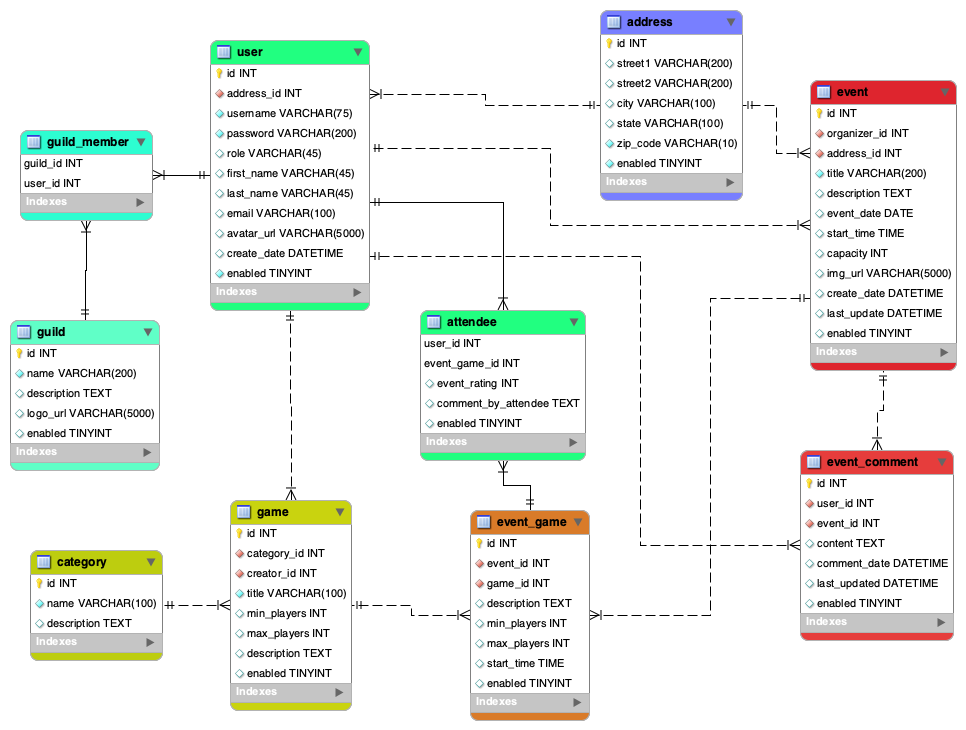
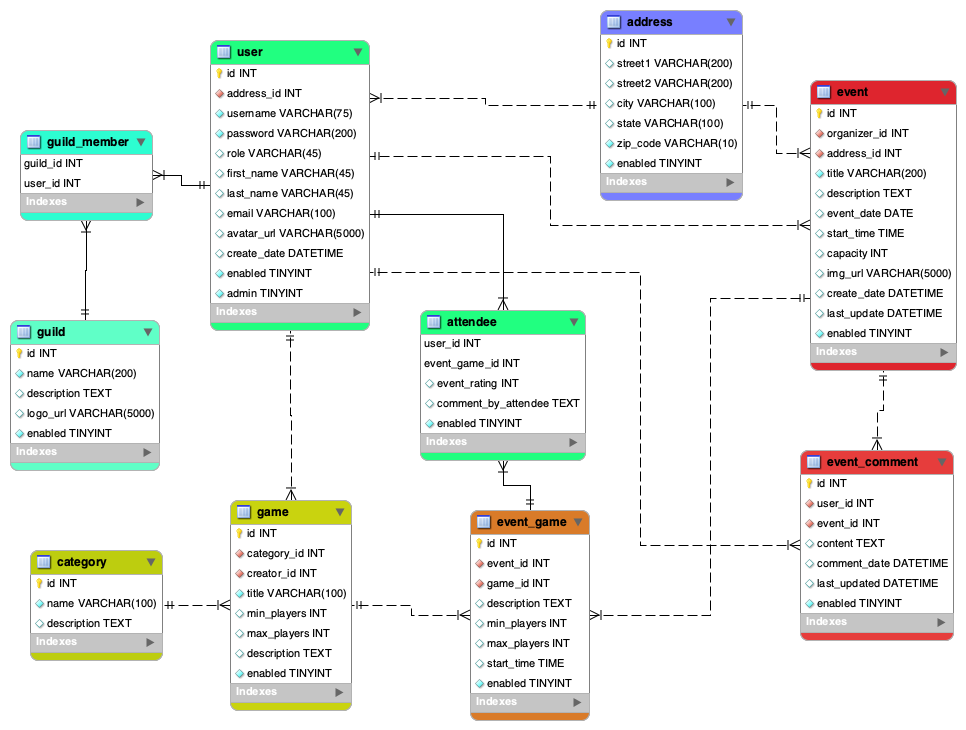
Added admin boolean field to User; Updated all entities with @NotNull annotations

diff --git a/JPAMidterm/src/main/java/com/skilldistillery/roundtablegaming/entities/User.java b/JPAMidterm/src/main/java/com/skilldistillery/roundtablegaming/entities/User.java
@@ -15,12 +15,17 @@ import javax.persistence.ManyToMany;
 import javax.persistence.ManyToOne;
 import javax.persistence.OneToMany;
 
+import com.sun.istack.NotNull;
+
 @Entity
 public class User {
 	@Id
 	@GeneratedValue(strategy = GenerationType.IDENTITY)
+	@NotNull
 	private int id;
+	@NotNull
 	private String username;
+	@NotNull
 	private String password;
 	private String role;
 	@Column(name = "first_name")
@@ -32,7 +37,10 @@ public class User {
 	private String avatar;
 	@Column(name = "create_date")
 	private LocalDateTime created;
+	@NotNull
 	private boolean enabled;
+	@NotNull
+	private boolean admin;
 	@OneToMany(mappedBy = "creator", cascade = CascadeType.PERSIST)
 	private List<Game> games;
 	@ManyToOne(cascade = CascadeType.PERSIST)
@@ -50,7 +58,7 @@ public class User {
 	public User() {}
 
 	public User(int id, String username, String password, String role, String firstName, String lastName, String email,
-			String avatar, LocalDateTime created, boolean enabled, List<Game> games, Address address,
+			String avatar, LocalDateTime created, boolean enabled, boolean admin, List<Game> games, Address address,
 			List<Attendee> attendees, List<Event> organizerEvents, List<EventComment> comments, List<Guild> guilds) {
 		super();
 		this.id = id;
@@ -63,6 +71,7 @@ public class User {
 		this.avatar = avatar;
 		this.created = created;
 		this.enabled = enabled;
+		this.admin = admin;
 		this.games = games;
 		this.address = address;
 		this.attendees = attendees;
@@ -149,6 +158,14 @@ public class User {
 
 	public void setEnabled(boolean enabled) {
 		this.enabled = enabled;
+	}
+
+	public boolean isAdmin() {
+		return admin;
+	}
+
+	public void setAdmin(boolean admin) {
+		this.admin = admin;
 	}
 
 	public List<Game> getGames() {
@@ -341,6 +358,8 @@ public class User {
 		builder.append(created);
 		builder.append(", enabled=");
 		builder.append(enabled);
+		builder.append(", admin=");
+		builder.append(admin);
 		builder.append(", address=");
 		builder.append(address);
 		builder.append("]");

diff --git a/JPAMidterm/src/main/java/com/skilldistillery/roundtablegaming/entities/Event.java b/JPAMidterm/src/main/java/com/skilldistillery/roundtablegaming/entities/Event.java
@@ -16,17 +16,23 @@ import javax.persistence.JoinColumn;
 import javax.persistence.ManyToOne;
 import javax.persistence.OneToMany;
 
+import com.sun.istack.NotNull;
+
 @Entity
 public class Event {
 	@Id
 	@GeneratedValue(strategy = GenerationType.IDENTITY)
+	@NotNull
 	private int id;
+	@NotNull
 	@ManyToOne(cascade = CascadeType.PERSIST)
 	@JoinColumn(name = "organizer_id")
 	private User organizer;
+	@NotNull
 	@ManyToOne(cascade = CascadeType.PERSIST)
 	@JoinColumn(name = "address_id")
 	private Address address;
+	@NotNull
 	private String title;
 	private String description;
 	@Column(name = "event_date")
@@ -40,6 +46,7 @@ public class Event {
 	private LocalDateTime createDate;
 	@Column(name = "last_update")
 	private LocalDateTime lastUpdate;
+	@NotNull
 	private boolean enabled;
 	@OneToMany(mappedBy = "event", cascade = CascadeType.PERSIST)
 	private List<EventGame> eventGames;

diff --git a/JPAMidterm/src/main/java/com/skilldistillery/roundtablegaming/entities/Game.java b/JPAMidterm/src/main/java/com/skilldistillery/roundtablegaming/entities/Game.java
@@ -13,25 +13,32 @@ import javax.persistence.JoinColumn;
 import javax.persistence.ManyToOne;
 import javax.persistence.OneToMany;
 
+import com.sun.istack.NotNull;
+
 @Entity
 public class Game {
 	@Id
 	@GeneratedValue(strategy= GenerationType.IDENTITY)
+	@NotNull
 	private int id;
+	@NotNull
 	private String title;
 	@Column(name="min_players")
 	private int minPlayers;
 	@Column(name="max_players")
 	private int maxPlayers;
 	private String description;
+	@NotNull
 	private boolean enabled;
 	@ManyToOne(cascade = CascadeType.PERSIST)
 	@JoinColumn(name = "category_id")
+	@NotNull
 	private Category category;
 	@OneToMany(mappedBy = "game", cascade = CascadeType.PERSIST)
 	private List<EventGame> eventGames;
 	@ManyToOne(cascade = CascadeType.PERSIST)
 	@JoinColumn(name = "creator_id")
+	@NotNull
 	private User creator;
 	
 	public Game() {}

diff --git a/JPAMidterm/src/main/java/com/skilldistillery/roundtablegaming/entities/EventComment.java b/JPAMidterm/src/main/java/com/skilldistillery/roundtablegaming/entities/EventComment.java
@@ -12,15 +12,20 @@ import javax.persistence.JoinColumn;
 import javax.persistence.ManyToOne;
 import javax.persistence.Table;
 
+import com.sun.istack.NotNull;
+
 @Entity
 @Table(name = "event_comment")
 public class EventComment {
 	@Id
 	@GeneratedValue(strategy = GenerationType.IDENTITY)
+	@NotNull
 	private int id;
+	@NotNull
 	@ManyToOne(cascade = CascadeType.PERSIST)
 	@JoinColumn(name = "user_id")
 	private User user;
+	@NotNull
 	@ManyToOne(cascade = CascadeType.PERSIST)
 	@JoinColumn(name = "event_id")
 	private Event event;
@@ -30,6 +35,7 @@ public class EventComment {
 	private LocalDateTime commentDate;
 	@Column(name = "last_updated")
 	private LocalDateTime lastUpdated;
+	@NotNull
 	private boolean enabled;
 	
 	public EventComment() {}

diff --git a/JPAMidterm/src/main/java/com/skilldistillery/roundtablegaming/entities/EventGame.java b/JPAMidterm/src/main/java/com/skilldistillery/roundtablegaming/entities/EventGame.java
@@ -15,11 +15,14 @@ import javax.persistence.ManyToOne;
 import javax.persistence.OneToMany;
 import javax.persistence.Table;
 
+import com.sun.istack.NotNull;
+
 @Entity
 @Table(name = "event_game")
 public class EventGame {
 	@Id
 	@GeneratedValue(strategy = GenerationType.IDENTITY)
+	@NotNull
 	private int id;
 	private String description;
 	@Column(name = "min_players")
@@ -28,9 +31,11 @@ public class EventGame {
 	private Integer maxPlayers;
 	@Column(name = "start_time")
 	private LocalTime startTime;
+	@NotNull
 	private boolean enabled;
 	@ManyToOne(cascade = CascadeType.PERSIST)
 	@JoinColumn(name = "game_id")
+	@NotNull
 	private Game game;
 	@OneToMany(mappedBy = "eventGame", cascade = CascadeType.PERSIST)
 	private List<Attendee> players;

diff --git a/JPAMidterm/src/main/java/com/skilldistillery/roundtablegaming/entities/Address.java b/JPAMidterm/src/main/java/com/skilldistillery/roundtablegaming/entities/Address.java
@@ -11,17 +11,22 @@ import javax.persistence.GenerationType;
 import javax.persistence.Id;
 import javax.persistence.OneToMany;
 
+import com.sun.istack.NotNull;
+
 @Entity
 public class Address {
 	@Id
 	@GeneratedValue(strategy = GenerationType.IDENTITY)
+	@NotNull
 	private int id;
 	private String street1;
 	private String street2;
 	private String city;
 	private String state;
+	@NotNull
 	@Column(name = "zip_code")
 	private String zipCode;
+	@NotNull
 	private boolean enabled;
 	@OneToMany(mappedBy = "address", cascade = CascadeType.PERSIST)
 	private List<Event> events;

diff --git a/JPAMidterm/src/main/java/com/skilldistillery/roundtablegaming/entities/Guild.java b/JPAMidterm/src/main/java/com/skilldistillery/roundtablegaming/entities/Guild.java
@@ -13,15 +13,20 @@ import javax.persistence.JoinColumn;
 import javax.persistence.JoinTable;
 import javax.persistence.ManyToMany;
 
+import com.sun.istack.NotNull;
+
 @Entity
 public class Guild {
 	@Id
 	@GeneratedValue(strategy = GenerationType.IDENTITY)
+	@NotNull
 	private int id;
+	@NotNull
 	private String name;
 	private String description;
 	@Column(name = "logo_url")
 	private String logoURL;
+	@NotNull
 	private boolean enabled;
 	@ManyToMany(cascade = CascadeType.PERSIST)
 	@JoinTable(name = "guild_member",

diff --git a/JPAMidterm/src/main/java/com/skilldistillery/roundtablegaming/entities/Category.java b/JPAMidterm/src/main/java/com/skilldistillery/roundtablegaming/entities/Category.java
@@ -10,11 +10,15 @@ import javax.persistence.GenerationType;
 import javax.persistence.Id;
 import javax.persistence.OneToMany;
 
+import com.sun.istack.NotNull;
+
 @Entity
 public class Category {
 	@Id
 	@GeneratedValue(strategy= GenerationType.IDENTITY)
+	@NotNull
 	private int id;
+	@NotNull
 	private String name;
 	private String description;
 	@OneToMany(mappedBy = "category", cascade = CascadeType.PERSIST)

diff --git a/JPAMidterm/src/main/java/com/skilldistillery/roundtablegaming/entities/Attendee.java b/JPAMidterm/src/main/java/com/skilldistillery/roundtablegaming/entities/Attendee.java
@@ -8,6 +8,8 @@ import javax.persistence.JoinColumn;
 import javax.persistence.ManyToOne;
 import javax.persistence.MapsId;
 
+import com.sun.istack.NotNull;
+
 @Entity
 public class Attendee {
 
@@ -25,6 +27,7 @@ public class Attendee {
 	private Integer eventRating;
 	@Column(name = "comment_by_attendee")
 	private String attendeeComment;
+	@NotNull
 	private boolean enabled;
 
 //	CONSTRUCTORS
